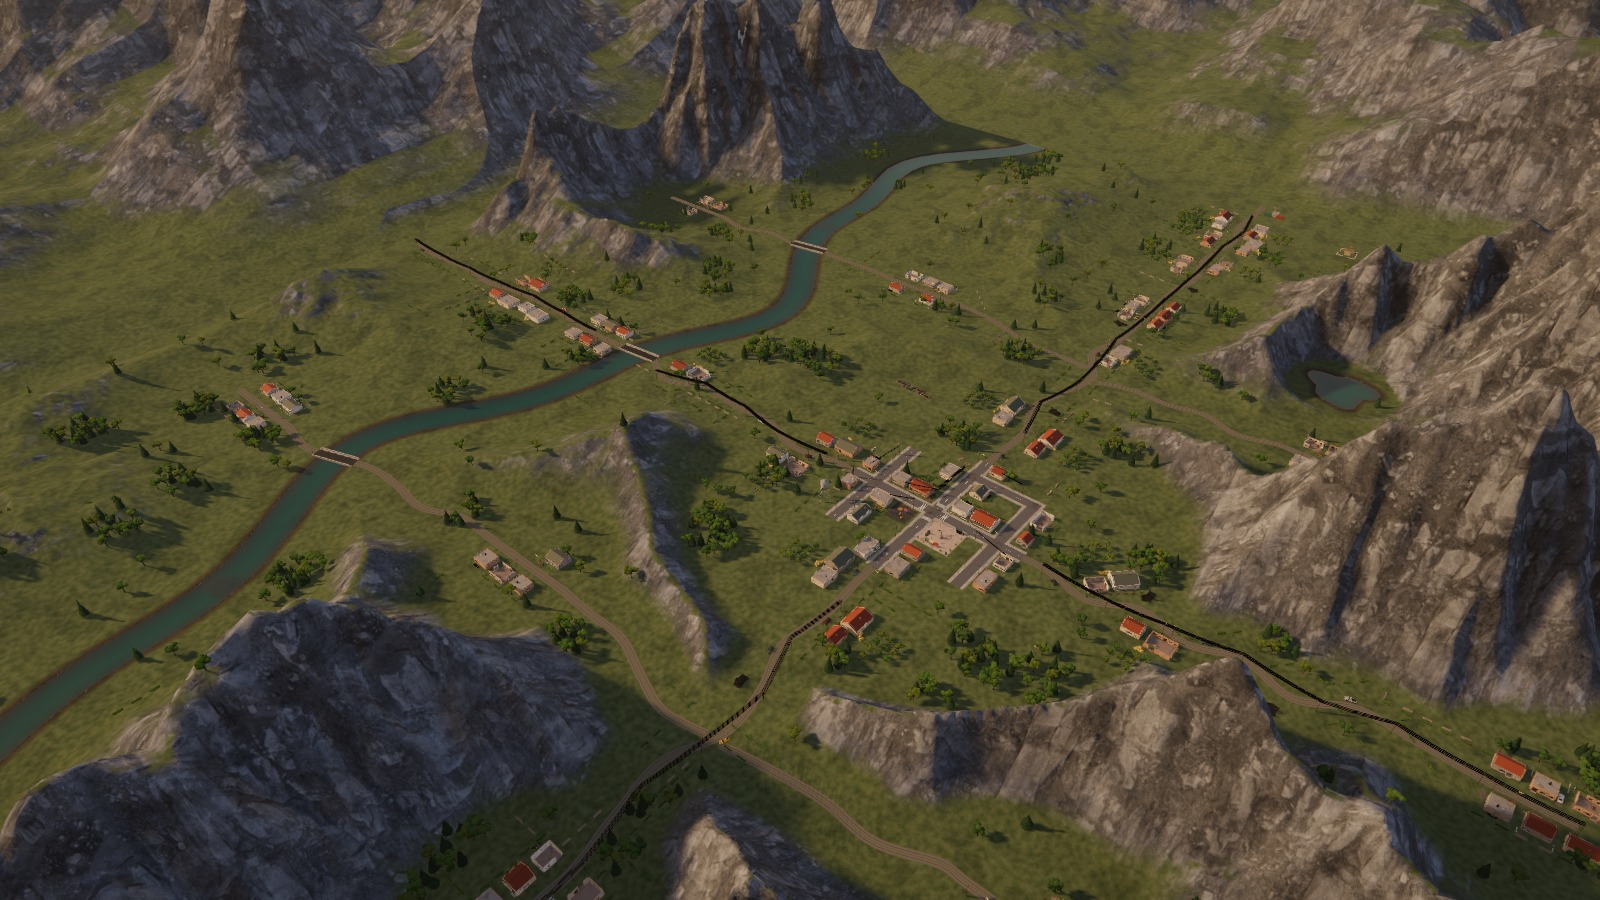
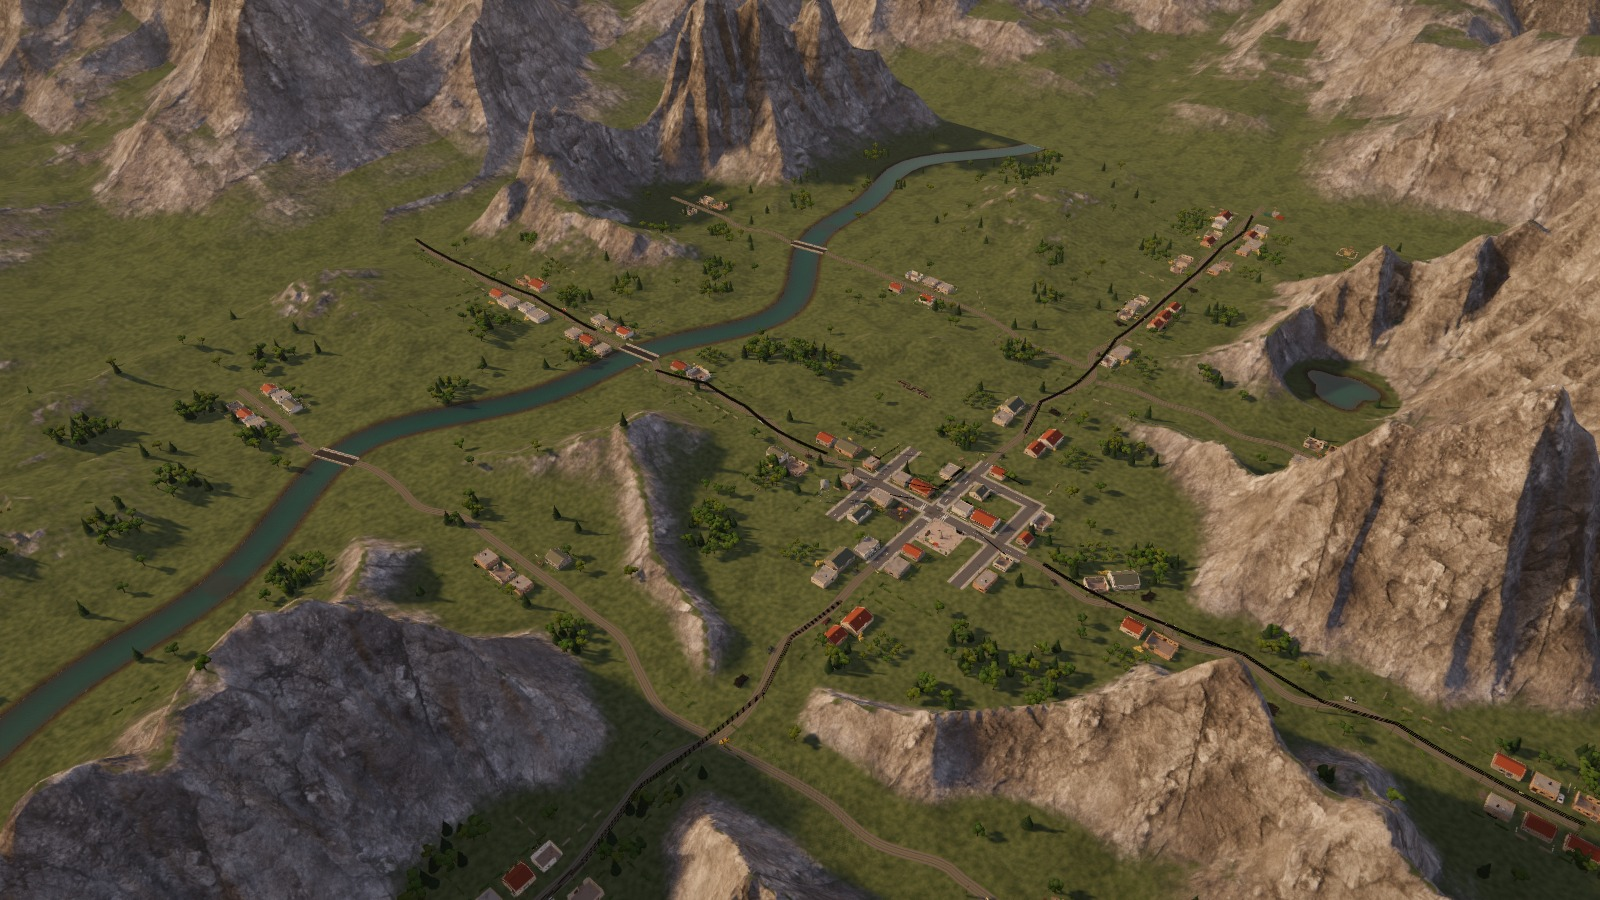
Sharpen alpine cliff materials and slope-driven snow
Scale photographic slabs for the battle camera, strengthen rock relief, and retain snow on gentler slopes. Refine distant silhouettes and decode Compatibility photograph samples consistently. Refresh rendered comparisons after gameplay and packaged performance checks.

diff --git a/docs/DEVELOPMENT.md b/docs/DEVELOPMENT.md
@@ -793,12 +793,14 @@ reserve level corridors before the final erosion pass. This keeps existing bridg
 connected. The river network is planned for gameplay before erosion, rather than derived from the erosion simulation.
 
 Ground materials blend bundled CC0 aerial rock, fractured stone and moss photographs with triplanar normal
-maps and connected snowfields. `Landform.bake_surface()` samples eight horizon bearings out to 128 m
+maps and connected snowfields. Cliff slabs use a larger scale than loose scree; steep faces shed snow.
+Photographic samples are converted from sRGB in Compatibility before computing the shared linear mineral masks.
+`Landform.bake_surface()` samples eight horizon bearings out to 128 m
 on an 8 m grid, baking sky visibility and broad concavity. A third channel traces toward the sun out to
 512 m, extending ridge shadows beyond the live shadow cascades. The bake rebuilds when the lighting
 mood changes and never changes geology or simulation data. Moving-object shadows, weather and crater
 normals remain live. Keep mipmaps enabled in their import settings. Credits and hashes
-are in `assets/terrain/`. Outside the playable boundary a coarse, non-interactive mountain backdrop blends
+are in `assets/terrain/`. Outside the playable boundary a 16 m, non-interactive mountain backdrop blends
 into the map edge; it is scenery only and does not enter navigation, replication or combat.
 
 `TerrainMap.dh` stores total height on the existing 50 cm deformation grid. The rendering texture carries

diff --git a/changelog/unreleased/mountain-battlefields.md b/changelog/unreleased/mountain-battlefields.md
@@ -19,7 +19,7 @@ caption = "Looking inland through the coastal valley with Mountain reflections e
 
 - Mountains, hills and valleys generate from the battle seed. Towns, starting bases, roads and river crossings retain usable valley corridors, with forests on lower ground.
 - Layered photographic rock, cool shaded gullies and connected snowfields give the mountains an Alpine appearance. Sky visibility and distant ridge shadows are baked into the terrain, updating when the lighting mood changes.
-- Fractured bedrock, tilted shelves and weathered ledges break up the mountain faces; snow now leaves more exposed rock below the peaks.
+- Fractured bedrock, tilted shelves and weathered ledges break up the mountain faces. Larger photographic slabs catch the light above smaller scree, while snow settles on gentler shelves and leaves steep cliffs exposed. Finer distant silhouettes keep the horizon from looking angular.
 - Standard-battle woods grow in denser clusters. Tree bark and foliage share spatial drawing batches while individual trees still burn and fall.
 - Alpine rivers have blue-green water. Optional Alpine distance haze separates the mountain ranges, and optional Mountain reflections capture distant terrain in the water without rendering the whole battle twice.
 - Troops and vehicles follow the terrain and avoid slopes they cannot climb. Ridges obstruct shots and observation; helicopters clear rising ground and land at the correct elevation.
